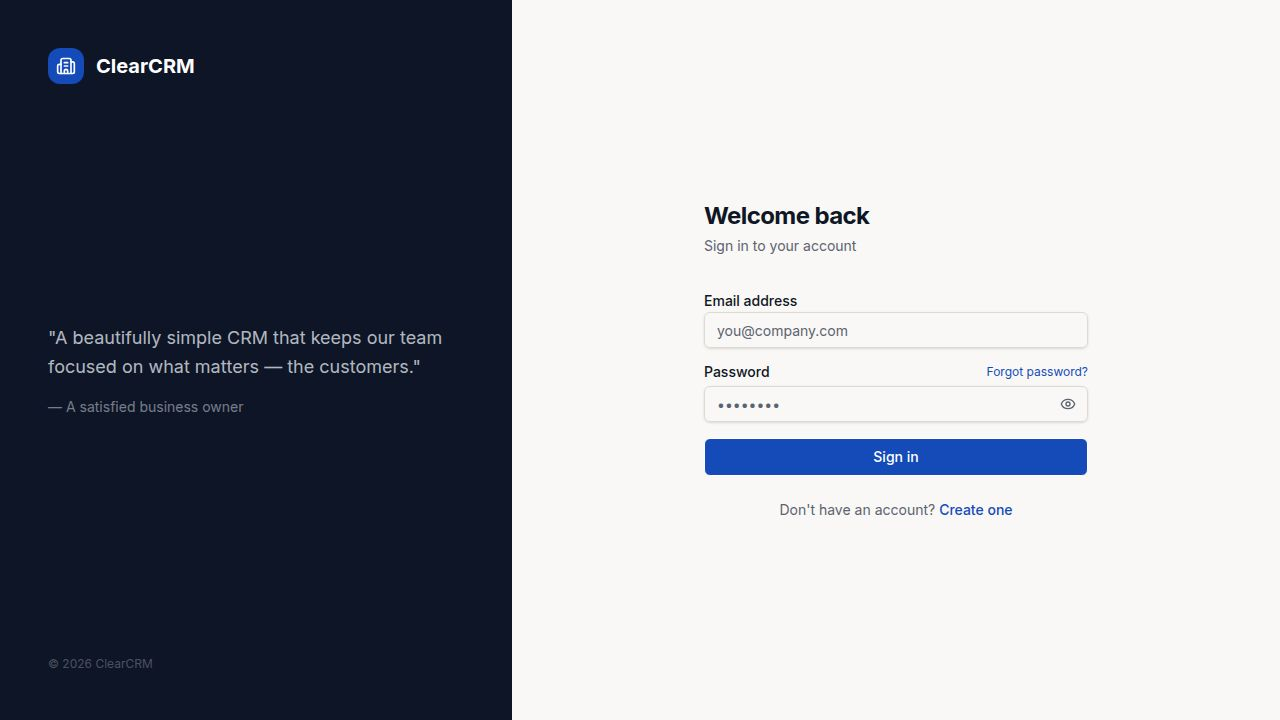
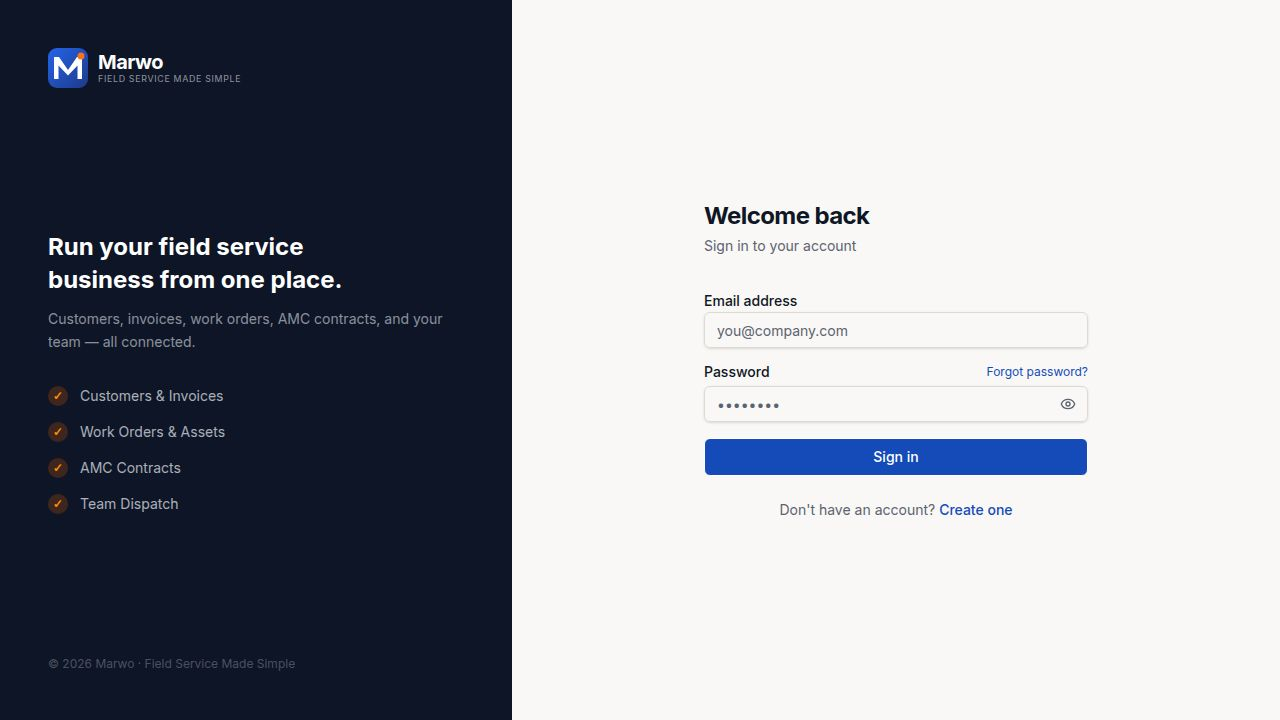
Add error handling and guidance for Firestore access issues
Implement robust error handling across multiple pages to catch Firestore permission errors and provide user-friendly messages, while also updating the layout banner with comprehensive security rules for easier configuration.

Replit-Commit-Author: Agent
Replit-Commit-Session-Id: 6949be6a-e375-44f4-afe9-202f44485821
Replit-Commit-Checkpoint-Type: full_checkpoint
Replit-Commit-Event-Id: 87e48398-ea66-4ecc-9090-cc68dd2505c1
Replit-Commit-Screenshot-Url: https://storage.googleapis.com/screenshot-production-us-central1/c4bb6c76-41f6-4b71-b75d-c94bdc8cd850/6949be6a-e375-44f4-afe9-202f44485821/LAgnU37
Replit-Helium-Checkpoint-Created: true

diff --git a/artifacts/crm/src/pages/tasks.tsx b/artifacts/crm/src/pages/tasks.tsx
@@ -74,12 +74,25 @@ export default function TasksPage() {
 
   async function load() {
     if (!user?.companyId) return;
-    const [t, c, techs] = await Promise.all([getTasks(user.companyId), getCustomers(user.companyId), getTechnicians(user.companyId)]);
-    const visibleTasks = isTechnician && user.technicianId ? t.filter((task) => task.assignedTo === user.technicianId) : t;
-    setTasks(visibleTasks);
-    setCustomers(c);
-    setTechnicians(techs);
-    setLoading(false);
+    setLoading(true);
+    try {
+      const [t, c, techs] = await Promise.all([getTasks(user.companyId), getCustomers(user.companyId), getTechnicians(user.companyId)]);
+      const visibleTasks = isTechnician && user.technicianId ? t.filter((task) => task.assignedTo === user.technicianId) : t;
+      setTasks(visibleTasks);
+      setCustomers(c);
+      setTechnicians(techs);
+    } catch (err: unknown) {
+      const code = (err as { code?: string })?.code;
+      toast({
+        title: code === "permission-denied" ? "Firestore: Permission denied" : "Failed to load tasks",
+        description: code === "permission-denied"
+          ? "Your Firestore security rules are blocking reads. See the banner at the top."
+          : "Check your connection and try again.",
+        variant: "destructive",
+      });
+    } finally {
+      setLoading(false);
+    }
   }
 
   useEffect(() => { load(); }, [user?.companyId]);

diff --git a/artifacts/crm/src/pages/technicians.tsx b/artifacts/crm/src/pages/technicians.tsx
@@ -51,10 +51,23 @@ export default function TechniciansPage() {
 
   async function load() {
     if (!user?.companyId) return;
-    const [techs, allTasks] = await Promise.all([getTechnicians(user.companyId), getTasks(user.companyId)]);
-    setTechnicians(techs);
-    setTasks(allTasks);
-    setLoading(false);
+    setLoading(true);
+    try {
+      const [techs, allTasks] = await Promise.all([getTechnicians(user.companyId), getTasks(user.companyId)]);
+      setTechnicians(techs);
+      setTasks(allTasks);
+    } catch (err: unknown) {
+      const code = (err as { code?: string })?.code;
+      toast({
+        title: code === "permission-denied" ? "Firestore: Permission denied" : "Failed to load technicians",
+        description: code === "permission-denied"
+          ? "Your Firestore security rules are blocking reads. See the banner at the top."
+          : "Check your connection and try again.",
+        variant: "destructive",
+      });
+    } finally {
+      setLoading(false);
+    }
   }
 
   useEffect(() => { load(); }, [user?.companyId]);

diff --git a/artifacts/crm/src/components/Layout.tsx b/artifacts/crm/src/components/Layout.tsx
@@ -245,7 +245,18 @@ export default function Layout({ children }: { children: React.ReactNode }) {
               {needsSetup ? (
                 <span><span className="font-semibold">Company setup incomplete.</span>{" "}Your account exists but no company workspace was created yet. Click <strong>Complete Setup</strong> to finish.</span>
               ) : firestoreError === "permission-denied" ? (
-                <span><span className="font-semibold">Firestore rules blocking access.</span>{" "}In Firebase Console → Firestore → Rules, set:{" "}<code className="bg-amber-100 px-1 rounded text-xs font-mono">allow read, write: if request.auth != null;</code>{" "}(service must be <strong>cloud.firestore</strong>, not beta1). Then click Retry.</span>
+                <div className="space-y-1.5">
+                  <p><span className="font-semibold">Firestore security rules are blocking all reads.</span>{" "}Go to <a href="https://console.firebase.google.com" target="_blank" rel="noopener noreferrer" className="underline font-medium">Firebase Console</a> → your project → Firestore Database → <strong>Rules</strong> tab, then paste these rules and click Publish:</p>
+                  <pre className="bg-amber-100 border border-amber-300 rounded px-3 py-2 text-xs font-mono leading-relaxed whitespace-pre select-all">{`rules_version = '2';
+service cloud.firestore {
+  match /databases/{database}/documents {
+    match /{document=**} {
+      allow read, write: if request.auth != null;
+    }
+  }
+}`}</pre>
+                  <p className="text-xs text-amber-700">After publishing the rules, click <strong>Retry</strong> on the right →</p>
+                </div>
               ) : (
                 <span><span className="font-semibold">Firestore not reachable.</span>{" "}Go to <a href="https://console.firebase.google.com" target="_blank" rel="noopener noreferrer" className="underline font-medium">Firebase Console</a> → Firestore Database → Create database (test mode). Then click Retry.</span>
               )}

diff --git a/artifacts/crm/src/pages/dashboard.tsx b/artifacts/crm/src/pages/dashboard.tsx
@@ -64,8 +64,14 @@ export default function DashboardPage() {
           totalRevenue,
           pendingRevenue,
         });
-      } catch (err) {
-        console.error(err);
+      } catch (err: unknown) {
+        const code = (err as { code?: string })?.code;
+        setSummary(null);
+        if (code === "permission-denied") {
+          console.error("Firestore permission denied on dashboard load — check security rules");
+        } else {
+          console.error("Dashboard load error:", err);
+        }
       } finally {
         setLoading(false);
       }

diff --git a/artifacts/crm/src/pages/assets.tsx b/artifacts/crm/src/pages/assets.tsx
@@ -52,6 +52,15 @@ export default function AssetsPage() {
     try {
       const [a, c] = await Promise.all([getAssets(user.companyId), getCustomers(user.companyId)]);
       setAssets(a); setCustomers(c);
+    } catch (err: unknown) {
+      const code = (err as { code?: string })?.code;
+      toast({
+        title: code === "permission-denied" ? "Firestore: Permission denied" : "Failed to load assets",
+        description: code === "permission-denied"
+          ? "Your Firestore security rules are blocking reads. See the banner at the top."
+          : "Check your connection and try again.",
+        variant: "destructive",
+      });
     } finally { setLoading(false); }
   }
   useEffect(() => { load(); }, [user?.companyId]);

diff --git a/artifacts/crm/src/pages/contracts.tsx b/artifacts/crm/src/pages/contracts.tsx
@@ -66,6 +66,15 @@ export default function ContractsPage() {
       const [c, cust, sett] = await Promise.all([getContracts(user.companyId), getCustomers(user.companyId), getSettings(user.companyId)]);
       setContracts(c); setCustomers(cust);
       if (sett?.currency) setCurrency(sett.currency);
+    } catch (err: unknown) {
+      const code = (err as { code?: string })?.code;
+      toast({
+        title: code === "permission-denied" ? "Firestore: Permission denied" : "Failed to load contracts",
+        description: code === "permission-denied"
+          ? "Your Firestore security rules are blocking reads. See the banner at the top."
+          : "Check your connection and try again.",
+        variant: "destructive",
+      });
     } finally { setLoading(false); }
   }
   useEffect(() => { load(); }, [user?.companyId]);

diff --git a/artifacts/crm/src/pages/customers.tsx b/artifacts/crm/src/pages/customers.tsx
@@ -72,6 +72,15 @@ export default function CustomersPage() {
     try {
       const data = await getCustomers(user.companyId);
       setCustomers(data);
+    } catch (err: unknown) {
+      const code = (err as { code?: string })?.code;
+      toast({
+        title: code === "permission-denied" ? "Firestore: Permission denied" : "Failed to load customers",
+        description: code === "permission-denied"
+          ? "Your Firestore security rules are blocking reads. See the banner at the top."
+          : "Check your connection and try again.",
+        variant: "destructive",
+      });
     } finally {
       setLoading(false);
     }

diff --git a/artifacts/crm/src/pages/invoices.tsx b/artifacts/crm/src/pages/invoices.tsx
@@ -53,6 +53,15 @@ export default function InvoicesPage() {
       ]);
       setInvoices(data);
       if (sett?.currency) setCurrency(sett.currency);
+    } catch (err: unknown) {
+      const code = (err as { code?: string })?.code;
+      toast({
+        title: code === "permission-denied" ? "Firestore: Permission denied" : "Failed to load invoices",
+        description: code === "permission-denied"
+          ? "Your Firestore security rules are blocking reads. See the banner at the top."
+          : "Check your connection and try again.",
+        variant: "destructive",
+      });
     } finally {
       setLoading(false);
     }

diff --git a/artifacts/crm/src/pages/work-orders.tsx b/artifacts/crm/src/pages/work-orders.tsx
@@ -78,6 +78,15 @@ export default function WorkOrdersPage() {
         getAssets(user.companyId),
       ]);
       setWorkOrders(wo); setCustomers(cust); setTechnicians(tech); setAssets(ast);
+    } catch (err: unknown) {
+      const code = (err as { code?: string })?.code;
+      toast({
+        title: code === "permission-denied" ? "Firestore: Permission denied" : "Failed to load work orders",
+        description: code === "permission-denied"
+          ? "Your Firestore security rules are blocking reads. See the banner at the top."
+          : "Check your connection and try again.",
+        variant: "destructive",
+      });
     } finally { setLoading(false); }
   }
   useEffect(() => { load(); }, [user?.companyId]);